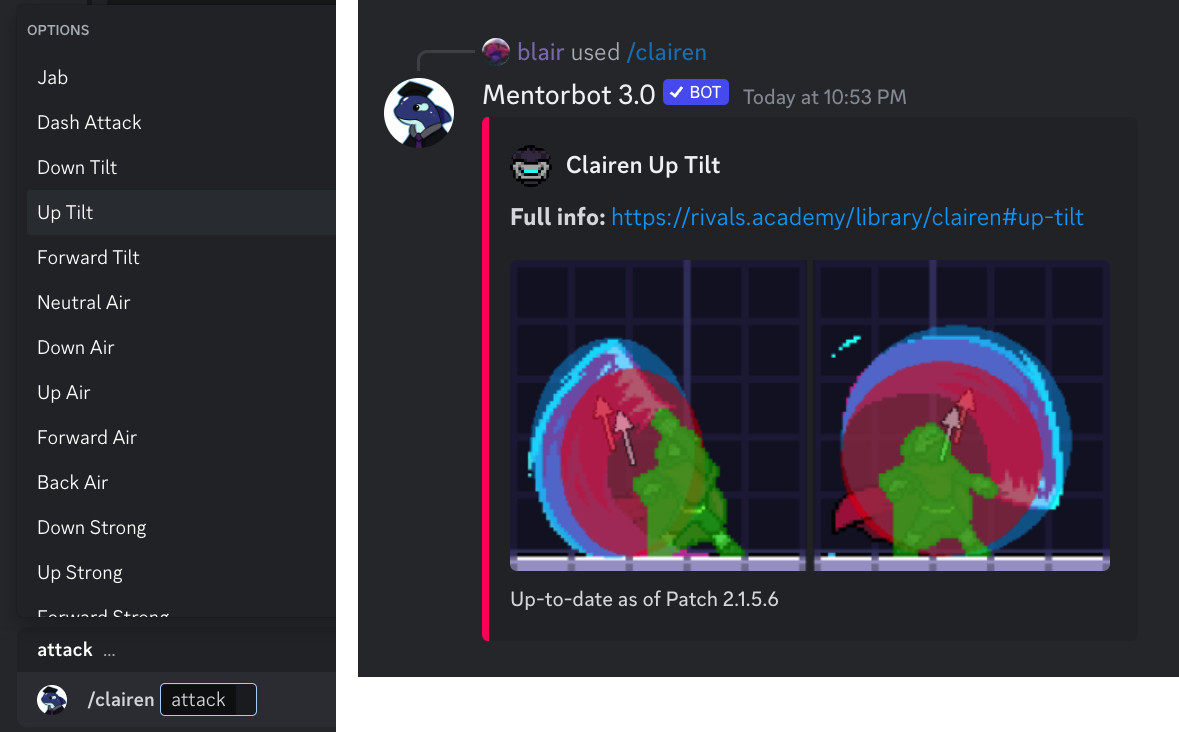
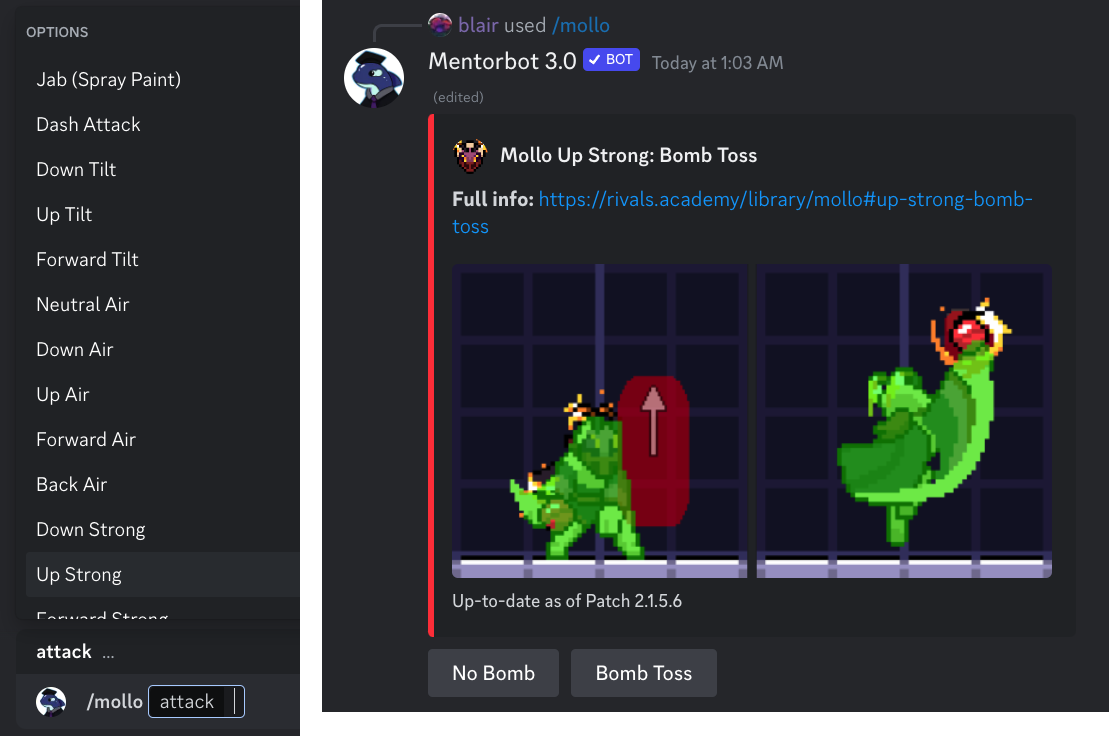
switch to hitbox command example with ui buttons

diff --git a/README.md b/README.md
@@ -10,7 +10,7 @@ See Mentorbot in the [Rivals Academy Discord](https://rivals.academy/discord), t
 
 Mentorbot's hitbox commands provide quick hitbox references for any move in the game, covering the movesets of all 18 characters.
 
-![Using the Clairen Uptilt hitbox command](readme/hitbox.png)
+![Using the Mollo Up Strong hitbox command](readme/hitbox.png)
 
 ### Informational Commands
 
